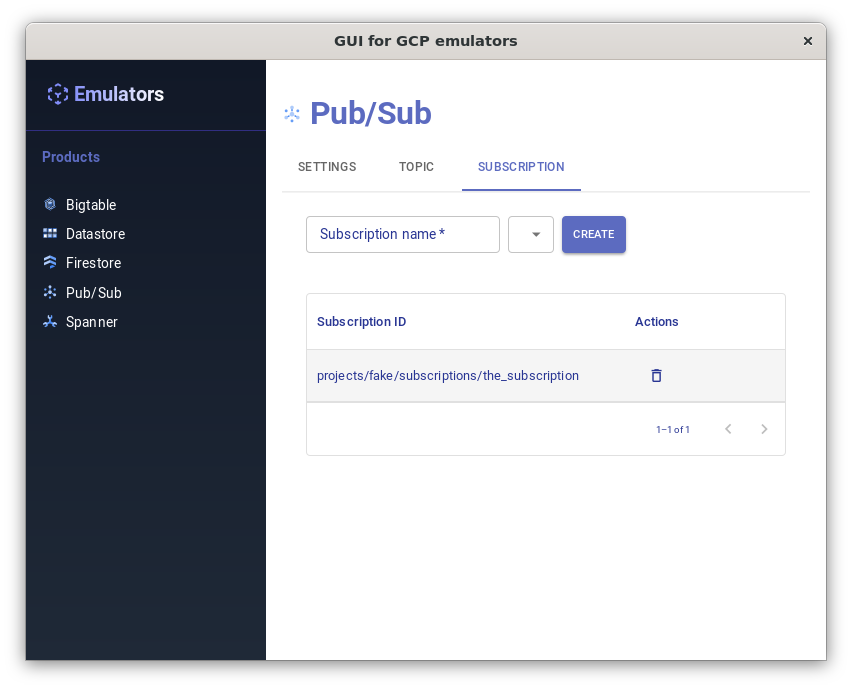
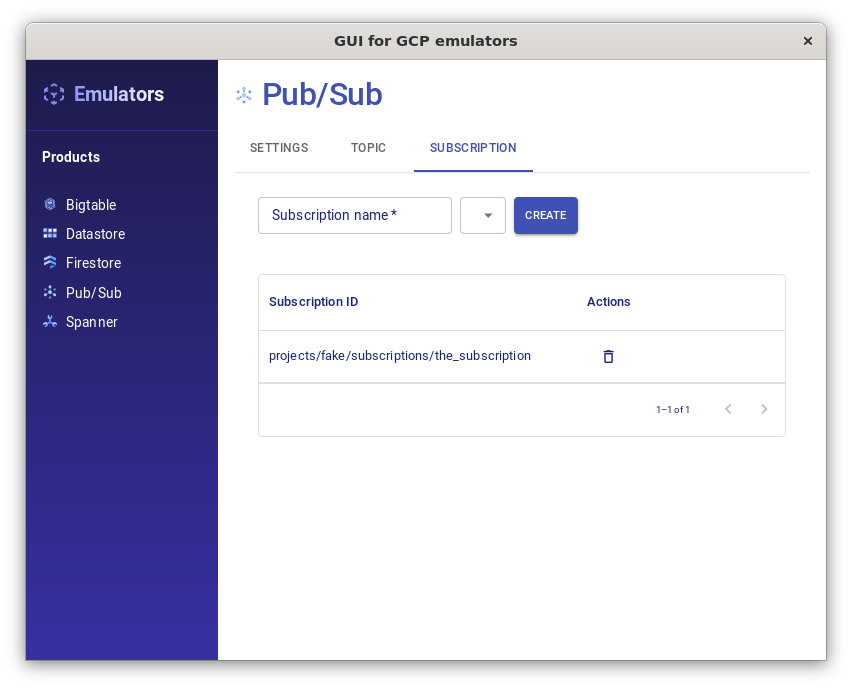
Update theme

diff --git a/src/pages/Home.tsx b/src/pages/Home.tsx
@@ -25,24 +25,24 @@ function Home(): React.ReactElement {
             </Typography>
 
             <Box className="flex">
-                <CardContent className="bg-green-400 rounded-xl p-4 mx-4 w-1/2">
-                    <Typography variant="h3" className="text-sm text-white uppercase">
+                <CardContent className="bg-indigo-100 rounded-xl p-4 mx-4 w-1/2">
+                    <Typography variant="h3" className="text-sm font-semibold text-indigo-900 uppercase">
                         Partially supported
                     </Typography>
-                    <ul className="my-4 text-green-900">
-                        <li><NavLink to="/pubsub">Pub/Sub </NavLink><CheckBoxIcon className="text-green-900" /></li>
+                    <ul className="my-4 text-indigo-800">
+                        <li><NavLink to="/pubsub">Pub/Sub </NavLink><CheckBoxIcon className="text-indigo-800" /></li>
                     </ul>
                 </CardContent>
 
-                <CardContent className="bg-pink-300 rounded-xl p-4 mx-4  w-1/2">
-                    <Typography variant="h3" className="text-sm text-white uppercase">
+                <CardContent className="bg-pink-100 rounded-xl p-4 mx-4  w-1/2">
+                    <Typography variant="h3" className="text-sm font-semibold text-pink-900 uppercase">
                         Not implemented
                     </Typography>
-                    <ul className="my-4 text-pink-900">
-                        <li>Bigtable <CloseIcon className="text-pink-900" /></li>
-                        <li>Datastore <CloseIcon className="text-pink-900" /></li>
-                        <li>Firestore <CloseIcon className="text-pink-900" /></li>
-                        <li>Spanner <CloseIcon className="text-pink-900" /></li>
+                    <ul className="my-4 text-pink-800">
+                        <li>Bigtable <CloseIcon className="text-pink-800" /></li>
+                        <li>Datastore <CloseIcon className="text-pink-800" /></li>
+                        <li>Firestore <CloseIcon className="text-pink-800" /></li>
+                        <li>Spanner <CloseIcon className="text-pink-800" /></li>
                     </ul>
                 </CardContent>
             </Box>

diff --git a/src/pages/PageLogo.tsx b/src/pages/PageLogo.tsx
@@ -4,12 +4,12 @@ import { NavLink } from "react-router-dom";
 function Header(): React.ReactElement {
     return (
         <header>
-            <h1 className="p-5 text-xl font-bold border-b border-indigo-900">
+            <h1 className="py-5 pl-4 text-xl font-bold border-b border-indigo-900">
                 <NavLink to="/">
                     <svg xmlns="http://www.w3.org/2000/svg" viewBox="0 0 24 24" className="w-6 h-6 stroke-2 stroke-indigo-400 inline mb-1">
                     <path strokeLinecap="round" strokeLinejoin="round" d="M21 7.5l-2.25-1.313M21 7.5v2.25m0-2.25l-2.25 1.313M3 7.5l2.25-1.313M3 7.5l2.25 1.313M3 7.5v2.25m9 3l2.25-1.313M12 12.75l-2.25-1.313M12 12.75V15m0 6.75l2.25-1.313M12 21.75V19.5m0 2.25l-2.25-1.313m0-16.875L12 2.25l2.25 1.313M21 14.25v2.25l-2.25 1.313m-13.5 0L3 16.5v-2.25" />
                     </svg>
-                    <span className="bg-clip-text text-transparent bg-gradient-to-r from-indigo-400 to-white pl-1">Emulators</span>
+                    <span className="bg-clip-text text-transparent bg-gradient-to-r from-indigo-400 to-white pl-2">Emulators</span>
                 </NavLink>
             </h1>
         </header>

diff --git a/src/theme.tsx b/src/theme.tsx
@@ -1,8 +1,8 @@
 import { createTheme } from "@mui/material";
 import { indigo } from "@mui/material/colors";
 
-const primary = indigo[400]
-const secondary = indigo[800]
+const primary = indigo[500]
+const secondary = indigo[900]
 
 const theme = createTheme({
     palette: {
@@ -21,20 +21,20 @@ const theme = createTheme({
       
       h1 : {
         fontSize: "2em",
-        fontWeight: 600,
-        margin: "0.6em 0 0.6em 0",
+        fontWeight: 500,
+        margin: "0 0 0.6em 0",
         color: primary,
       },
       h2 : {
         fontSize: "1.6em",
-        fontWeight: 400,
-        margin: "0.8em 0 0.8em 0",
+        fontWeight: 500,
+        margin: "1em 0 1em 0",
         color: primary,
       },
       h3 : {
         fontSize: "1.2em",
         fontWeight: 400,
-        margin: "0.8em 0 0.8em 0",
+        margin: "1em 0 1em 0",
         color: primary,
       },
       body1: {

diff --git a/src/pages/PageLayout.tsx b/src/pages/PageLayout.tsx
@@ -8,7 +8,7 @@ function PageLayout(): React.ReactElement {
 
     return (
         <div className="flex">
-            <div className="flex flex-col w-60 h-screen bg-gradient-to-b from-gray-900 to-gray-800">
+            <div className="flex flex-col w-48 h-screen bg-gradient-to-b from-indigo-950 to-indigo-800">
                 <PageLogo />
                 <Nav title="Products" />
             </div>

diff --git a/src/components/navigation/Nav.tsx b/src/components/navigation/Nav.tsx
@@ -28,7 +28,7 @@ function Nav({ title }: NavProps): React.ReactElement {
 
     return (
         <>
-            <Typography className="py-4 pl-4 font-bold" color="primary">{title}</Typography>
+            <Typography className="py-4 pl-4 font-bold text-white">{title}</Typography>
             <MenuList>
                 {navItems}
             </MenuList>
